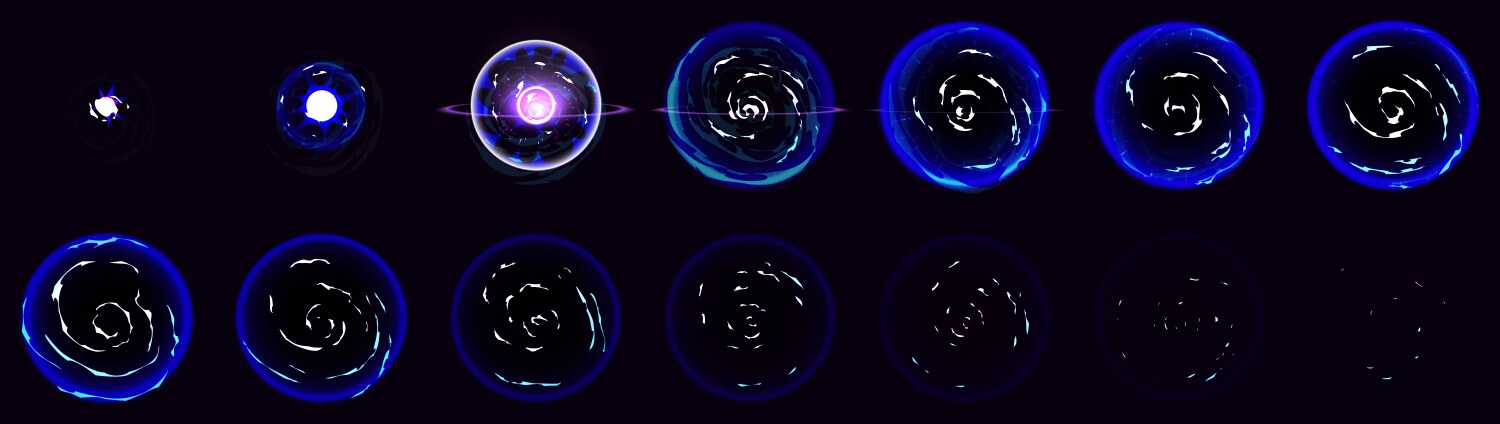
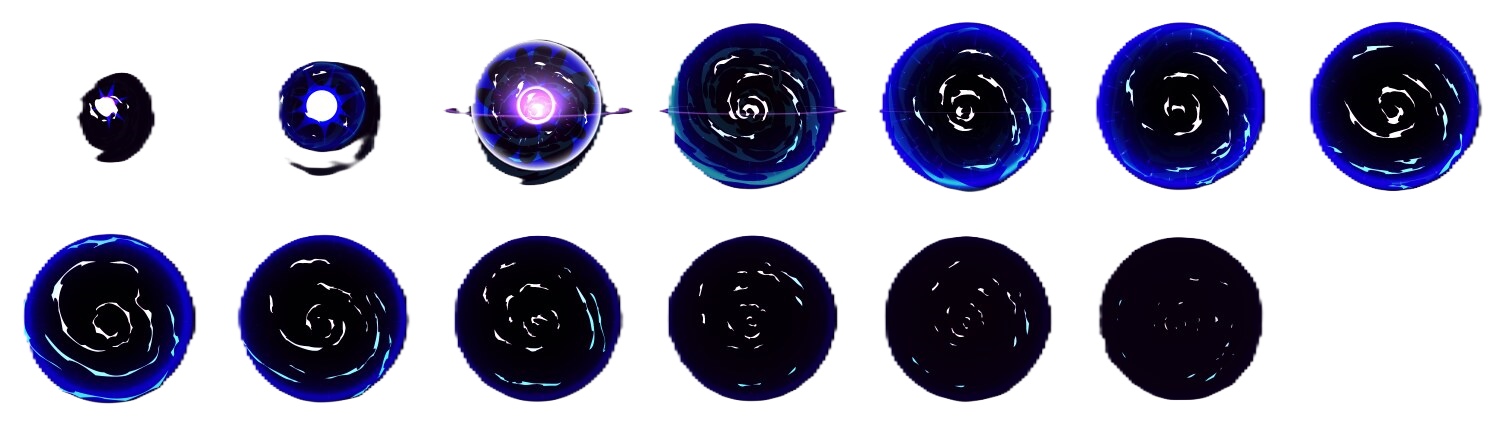
after change  help player and merge with yosef

diff --git a/src/gameState/GameModeSelection.cpp b/src/gameState/GameModeSelection.cpp
@@ -9,10 +9,11 @@ GameModeSelection::GameModeSelection(Controller* controller, Board* boardState, 
 	std::vector<sf::Texture>& texture = Resources::getInstance().getGameModeTexture();
 	m_Stage.setTexture(texture[0]);
 
-	m_buttons.push_back(std::make_unique<Button>(std::move(std::make_unique<SwichScreen>(menu, controller)), Resources::getInstance().getMenuTexture()[7], sf::Vector2f(0, 0))); //Button 4
+	
 	m_buttons.push_back(std::make_unique<Button>(std::move(std::make_unique<SwichScreen>(selectTeam, controller)), texture[1], sf::Vector2f(350.f, 150.f))); //Button 1
 	m_buttons.push_back(std::make_unique<Button>(std::move(std::make_unique<SwichScreen>(selectTeam, controller)), texture[2], sf::Vector2f(800.f, 150.f))); //Button 2
 	m_buttons.push_back(std::make_unique<Button>(std::move(std::make_unique<SwichScreen>(selectTeam, controller)), texture[3], sf::Vector2f(1250.f, 150.f))); //Button 3
+	m_buttons.push_back(std::make_unique<Button>(std::move(std::make_unique<SwichScreen>(menu, controller)), Resources::getInstance().getMenuTexture()[7], sf::Vector2f(0, 0))); //Button 4
 
 	textModeSelection();
 }
@@ -21,7 +22,7 @@ void GameModeSelection::textModeSelection()
 {
 	sf::Font& font = Resources::getInstance().getFont();
 
-	for (int i = 0; i < 3; i++)
+	for (int i = 0; i < 4; i++)
 	{
 		m_modeText.push_back(sf::Text());
 		m_modeText[i].setFont(font);
@@ -38,6 +39,8 @@ void GameModeSelection::textModeSelection()
 	m_modeText[0].setString("Multiplayer Mode");
 	m_modeText[1].setString("Single player Mode");
 	m_modeText[2].setString("     Online Mode");
+	m_modeText[3].setString("Back To Menu");
+
 
 	for (int i = 0; i < m_modeText.size(); i++)
 	{

diff --git a/src/gameState/SelectTeam.cpp b/src/gameState/SelectTeam.cpp
@@ -13,7 +13,7 @@ SelectTeam::SelectTeam(Controller * controller, GameModeSelection* gameMode, Boa
 
 
   m_buttons.push_back(std::make_unique<Button>(std::move(std::make_unique<SwichScreen>(boardState, controller)),Resources::getInstance().getSelectTeam()[7], sf::Vector2f(520.f, 690.f))); //playButton
-	m_buttons.push_back(std::make_unique<Button>(std::move(std::make_unique<SwichScreen>(gameMode, controller)), Resources::getInstance().getMenuTexture()[7], sf::Vector2f(0, 0))); //Button 4
+  m_buttons.push_back(std::make_unique<Button>(std::move(std::make_unique<SwichScreen>(gameMode, controller)), Resources::getInstance().getMenuTexture()[7], sf::Vector2f(0, 0))); //Button 4
 
 
 	std::vector<sf::Texture>& charctersTexture = Resources::getInstance().getSelectTeam();
@@ -68,8 +68,12 @@ void SelectTeam::draw(sf::RenderWindow& window) const {
 
 	for (int i = 0; i < m_buttons.size(); i++)
 	{
-		if (m_playerSelected == m_numOfPlayers) {
+		if (i == 0 && !(m_playerSelected == m_numOfPlayers)) {
 
+			continue;
+		}
+		else
+		{
 			m_buttons[i]->draw(window);
 		}
 	}

diff --git a/src/gameState/Menu.cpp b/src/gameState/Menu.cpp
@@ -15,8 +15,8 @@ Menu::Menu(Controller* controller, Tutorial* tutorial, GameModeSelection * gameM
 	m_Stage.setTexture(texture[4]);
 
 	m_buttons.push_back(std::make_unique<Button>(std::move(std::make_unique<SwichScreen>(gameModeState, controller)), texture[0], sf::Vector2f(750.f, 300.f))); //playButton
-  m_buttons.push_back(std::make_unique<Button>(std::move(std::make_unique<SwichScreen>(tutorial, controller)), texture[3], sf::Vector2f(100.f, 200.f))); //tutorial Button
-	m_buttons.push_back(std::make_unique<Button>(std::move(std::make_unique<Quit>(window)), texture[1], sf::Vector2f(750.f, 450.f))); //exit Button
+	m_buttons.push_back(std::make_unique<Button>(std::move(std::make_unique<SwichScreen>(tutorial, controller)), texture[3], sf::Vector2f(750.f, 450.f))); //tutorial Button
+	m_buttons.push_back(std::make_unique<Button>(std::move(std::make_unique<Quit>(window)), texture[1], sf::Vector2f(750.f, 600.f))); //exit Button
 
 };
 

diff --git a/src/Resources.cpp b/src/Resources.cpp
@@ -45,16 +45,16 @@ Resources::Resources():m_selectedIndex(0){
 	std::vector<std::string> gamePause{ "Pause.png","Resume.png", "Exit.png"};
 	loadFromFile(gamePause, m_pauseTexture);
 
-	std::vector<std::string> power{ "Progress Bar - Background.png","Progress Bar - Fill.png",  "Aura.png" ,"Tornado Power.png", "Kame Hame Ha.png",};
+	std::vector<std::string> power{ "Progress Bar - Background.png","Progress Bar - Fill.png",  "Aura.png" ,"Tornado Power.png", "Kame Hame Ha.png","electricPower.png" };
 	loadFromFile(power, m_powerTexture);
 
-	sf::Image im;
+	/*sf::Image im;
 	im.loadFromFile("electricPower.png");
 	im.createMaskFromColor(sf::Color(8, 0, 15));
 	im.createMaskFromColor(sf::Color::Black);
 	sf::Texture texture;
 	texture.loadFromImage(im);
-	m_powerTexture.push_back(texture);
+	m_powerTexture.push_back(texture);*/
 
 
 	std::vector<std::string> powerOfPlayer{ "fireDragon.png"};

diff --git a/src/gameObject/Player.cpp b/src/gameObject/Player.cpp
@@ -15,6 +15,7 @@
 
 
 
+
 //-----------------------------------------------------------------------------
 Player::Player(bool right, Keyboard keys) :m_numOfJump(0), m_posX(0), m_posY(0), m_move(-2), m_gravity(0),m_keys(keys), m_playerSide(right)
 , m_aura(false), m_standMoveState(&m_leftMoveState, &m_rightMoveState,&m_jumpMoveState,&m_kickMoveState), m_leftMoveState(&m_standMoveState)
@@ -22,7 +23,7 @@ Player::Player(bool right, Keyboard keys) :m_numOfJump(0), m_posX(0), m_posY(0),
 m_currentMoveState(&m_standMoveState)
 {
 	m_sound.setBuffer(Resources::getInstance().getBufferVec()[0]);
-	m_power = std::make_shared<ElectricPower>();
+	m_power = std::make_shared<KameHameHaPower>();
 
 
 	m_sprite.setTexture(Resources::getInstance().getCharactersTexture());
